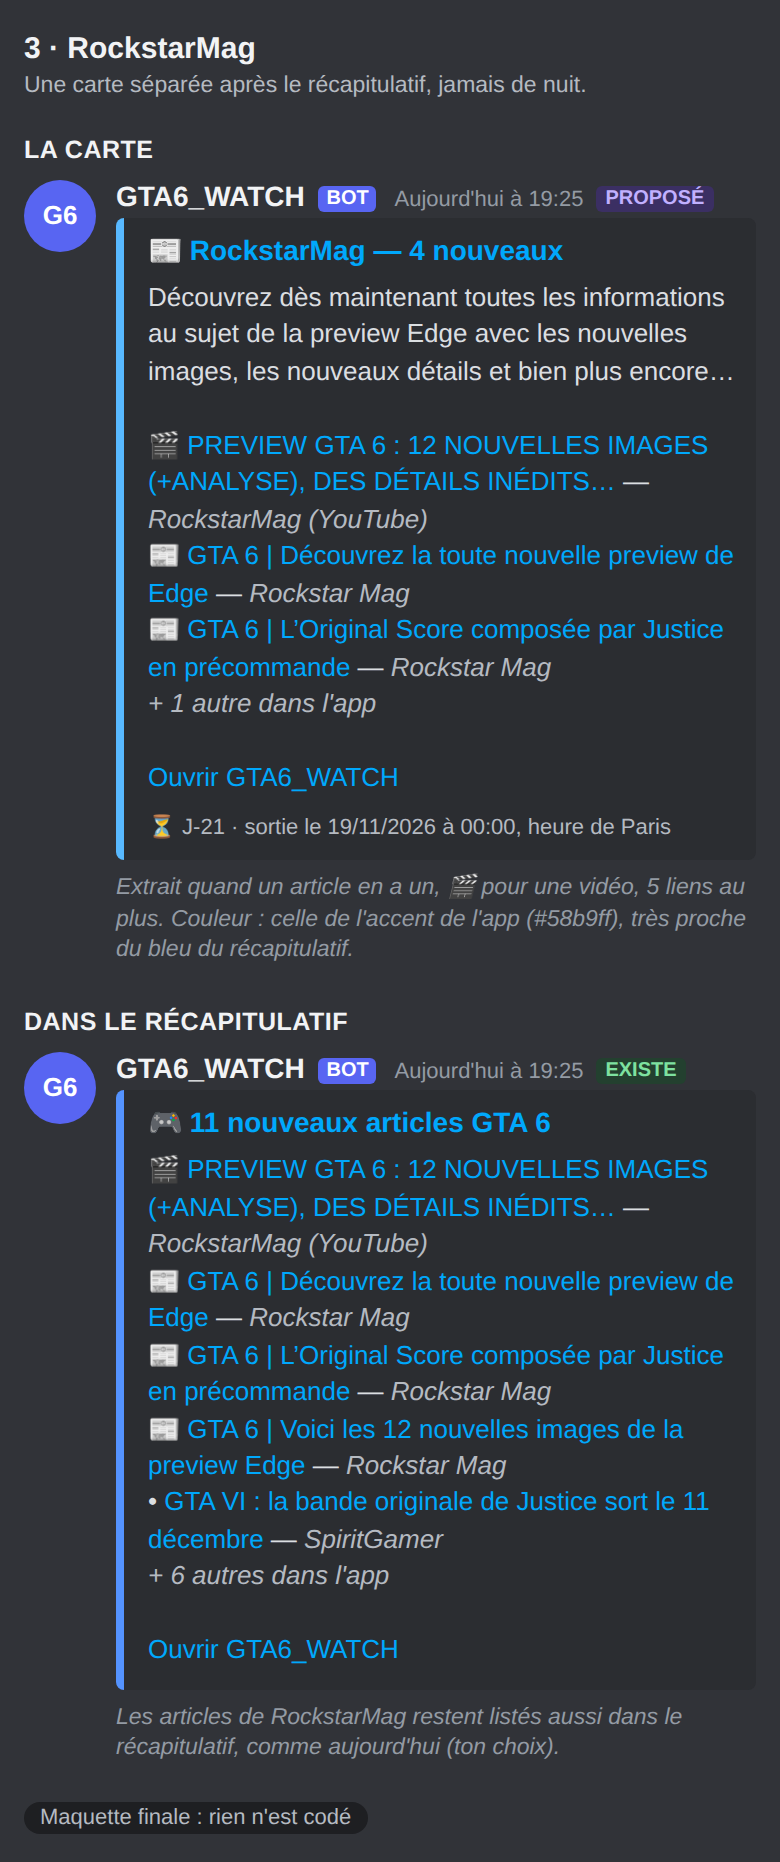
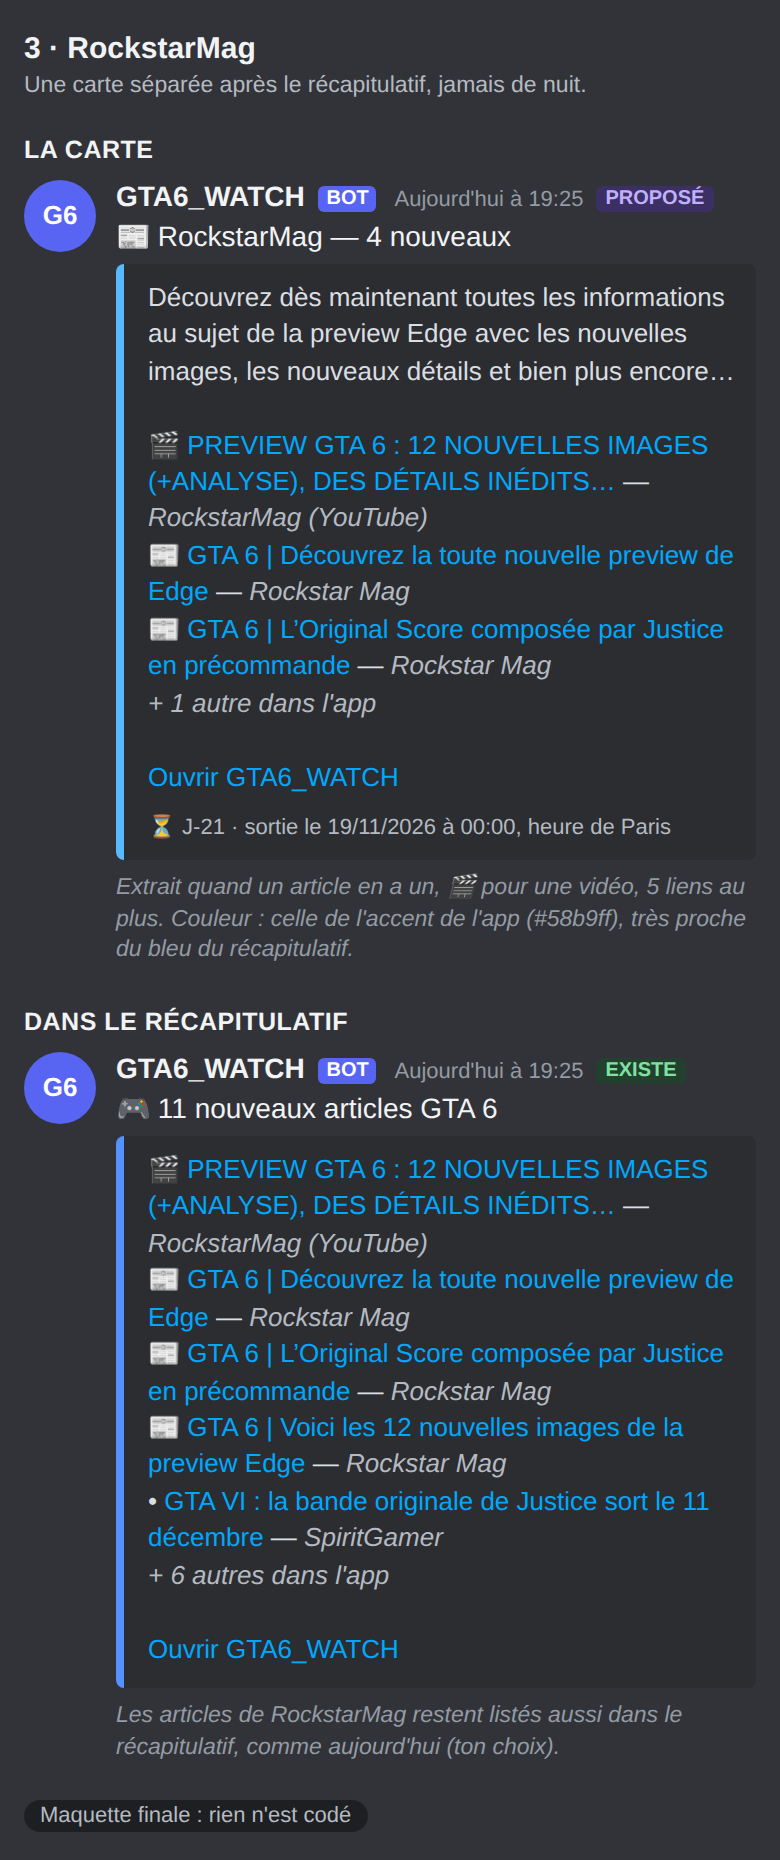
Spec Discord : vocabulaire commun, ligne d'aperçu, décisions de rythme et de salon
Réponses d'Antoni : récapitulatif à l'heure comme aujourd'hui, un seul salon, une ligne
d'aperçu avant la carte (le titre passe au-dessus, la carte n'en a plus), le push reprendra
le même vocabulaire quand il sera retenté. Tableau commun marqueur, couleur et titre par
catégorie, avec l'ordre d'importance. Visuels refaits avec la ligne d'aperçu.

Claude-Session: https://claude.ai/code/session_01DqaCi1a9z33GCLfRvxZycB

diff --git a/tasks/spec-discord-notification.md b/tasks/spec-discord-notification.md
@@ -30,7 +30,11 @@ Visuels, dans `tasks/visuels-discord/` :
 | Bilan du soir | Un message par jour à 22 h, **avant et après la sortie**. |
 | Annonces officielles | **Une seule notification par passage, 5 liens au plus puis un compteur** ; type de contenu, heure de publication, pied commun ; **annonces d'abord, boutique ensuite** ; **la boutique garde la catégorie « officiel »** ; fusion EN/FR avec **titre en français** ; mesure du retard, relue après **10 alertes**. |
 | RockstarMag | **Carte séparée**, 🎬 pour les vidéos, extrait du résumé, **silence la nuit**, **reste après la sortie**, couleur de **l'accent de l'app**. Le récapitulatif **liste aussi** ses articles. |
-| Écarté | Mention `@` qui sonne ; passage plus fréquent sur les flux officiels ; toute image (vignette, grande image) ; rappel d'agenda ; plus de lignes. |
+| Rythme | **Un récapitulatif par heure, comme aujourd'hui** (environ 16 par jour de 6 h à 21 h). Pas de regroupement. |
+| Salons | **Un seul salon, comme aujourd'hui** : aucun nouveau secret. |
+| Ligne d'aperçu | **Oui** : le titre passe dans une ligne de texte au-dessus de la carte (le `content` du message), la carte n'a plus de titre, pour que l'aperçu sur l'écran verrouillé soit lisible. |
+| Push | **Même vocabulaire que Discord** quand il sera retenté (titres, marqueurs, hiérarchie) ; il reste éteint, rien n'est retenté ici. |
+| Écarté | Mention `@` qui sonne ; salons séparés ; regroupement des récapitulatifs ; passage plus fréquent sur les flux officiels ; toute image (vignette, grande image) ; rappel d'agenda ; plus de lignes. |
 
 ## État actuel, mesuré (29/10/2026)
 
@@ -164,6 +168,34 @@ l'historique (`item_protege`).
 Coût : un message de plus les jours où RockstarMag publie, troisième exception à « un seul
 message par passage » après les alertes de source et les annonces officielles.
 
+## Un vocabulaire commun (Discord, push, app)
+
+La même grammaire partout : un marqueur, une couleur, un titre écrit **une seule fois**
+(`feed_store.libelle_*`), repris mot pour mot par Discord et par le push, comme c'est déjà le
+cas du récapitulatif et des annonces officielles. Ordre d'importance, du plus fort au plus
+discret : **officiel > actu majeure > RockstarMag > récapitulatif > bilan**.
+
+| catégorie | marqueur | barre Discord | titre |
+|---|---|---|---|
+| Annonce officielle | ⭐ | orange `#FF6B00` | « ⭐ N annonce(s) officielle(s) Rockstar » |
+| Actu majeure | 🚨 (🔥 sur la ligne) | rouge `#E04F5F` | « 🚨 Actu majeure — N sources sur le même sujet » |
+| RockstarMag | 📰 site, 🎬 vidéo | accent de l'app `#58b9ff` | « 📰 RockstarMag — N nouveau(x) » |
+| Récapitulatif | 🎮 | palier du compteur (jaune, orange, rose, sinon bleu) | « 🎮 N nouveaux articles GTA 6 » |
+| Bilan du soir | 🌙 | violet `#8e5cff` | « 🌙 Bilan du JJ/MM : N articles » |
+| État des sources | ⚠ / ✅ | rouge / vert | « ⚠ État des sources » |
+| Push mort | 🔕 | orange `#E67E22` | existant |
+
+**La ligne d'aperçu.** Chaque message Discord commence par son titre en texte simple, au-dessus de
+la carte ; la carte porte le détail, sans titre en double. C'est le même texte que le titre du
+push. **À vérifier au premier envoi réel** : je ne peux pas savoir d'ici ce que Discord affiche
+sur l'écran verrouillé pour un message qui a du texte et une carte ; Antoni regarde et me dit.
+
+**Le push, plus tard.** Quand il sera retenté, il reprend ce tableau : même titre, même marqueur,
+et l'ordre d'importance pour choisir l'article cité dans son corps (`article_le_plus_notable`
+suit déjà : officiel, puis nombre de rédactions, puis date). L'icône et le badge de l'app
+restent. Aujourd'hui seuls le récapitulatif et l'annonce officielle y sont alignés : la carte
+RockstarMag et le bilan du soir n'existent pas côté push.
+
 ## 6 · Quand chaque message arrive
 
 ![Une journée type](visuels-discord/quand-1.png)
@@ -175,6 +207,8 @@ RockstarMag qui continuent.
 
 ## Risques et ce que je ne sais pas
 
+- **La ligne d'aperçu** : voir « Un vocabulaire commun ». Si Discord affiche déjà le titre de la carte, elle
+  sera redondante, et on la retire.
 - **Discord limite un embed à 6 000 caractères** : cinq lignes de 343 caractères, des champs et un
   pied tiennent largement.
 - **Exceptions à « un seul message par passage »** : alertes de source, annonces officielles
@@ -211,5 +245,7 @@ Un lot par PR, chacun avec ses contrôles et sa preuve d'échec, après ton « g
   les lister.
 - Bilan : un seul par jour civil à Paris, même avec deux passages après 22 h ; aucun avant 22 h ;
   heures testées des deux côtés du changement d'heure.
+- Aperçu : chaque message porte une ligne de texte égale à son titre côté push ; la carte n'a pas de
+  titre ; le texte ne dépasse pas 2 000 caractères (limite Discord du `content`).
 - Dans tous les cas : aucun secret ni URL de webhook dans un journal ; `DISCORD_WEBHOOK_URL` reste
   dans les secrets GitHub ; aucun nom de modèle.

diff --git a/RESTE-A-FAIRE.md b/RESTE-A-FAIRE.md
@@ -1872,3 +1872,7 @@ Plus aucune image dans les notifications (29/10/2026, au soir) : Antoni retire l
 et la vignette, sur Discord comme sur le push, ce qui annule son choix de l'après-midi. Spec et
 visuels refaits sans image.
 
+Réponses d'Antoni du 29/10/2026 au soir : récapitulatif toujours à l'heure, un seul salon, une
+ligne d'aperçu avant la carte, le push avec le même vocabulaire plus tard. La spec a un tableau
+« vocabulaire commun ». À faire au premier envoi réel : regarder l'écran verrouillé.
+
